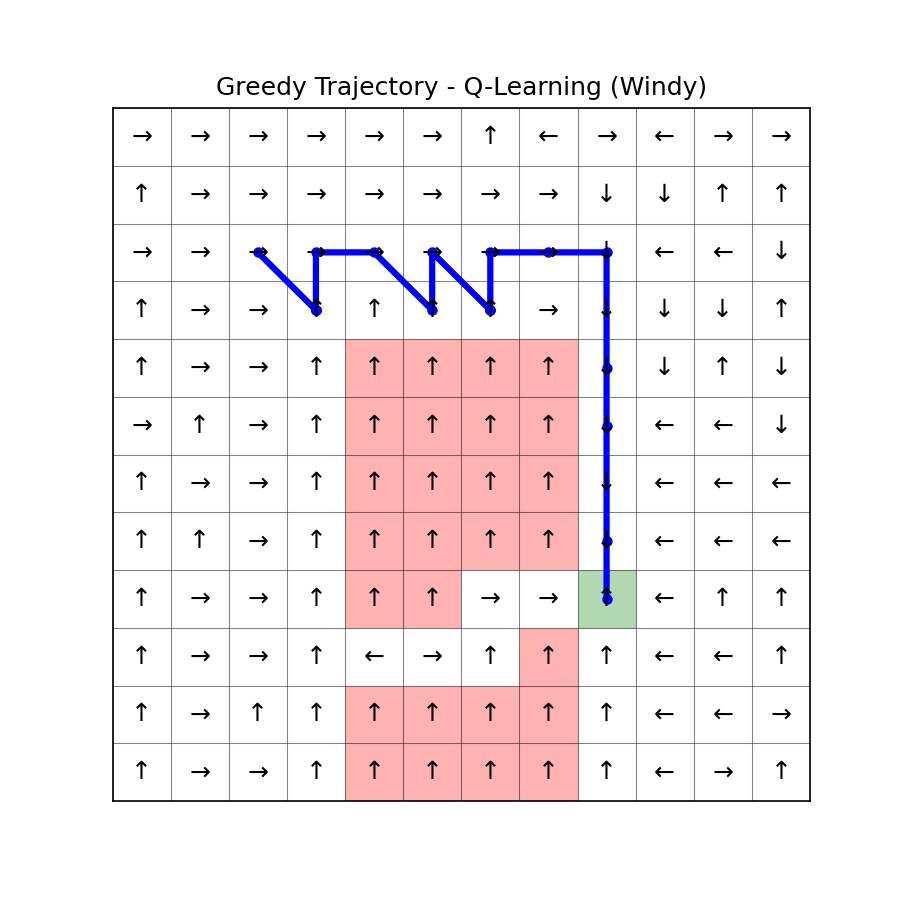
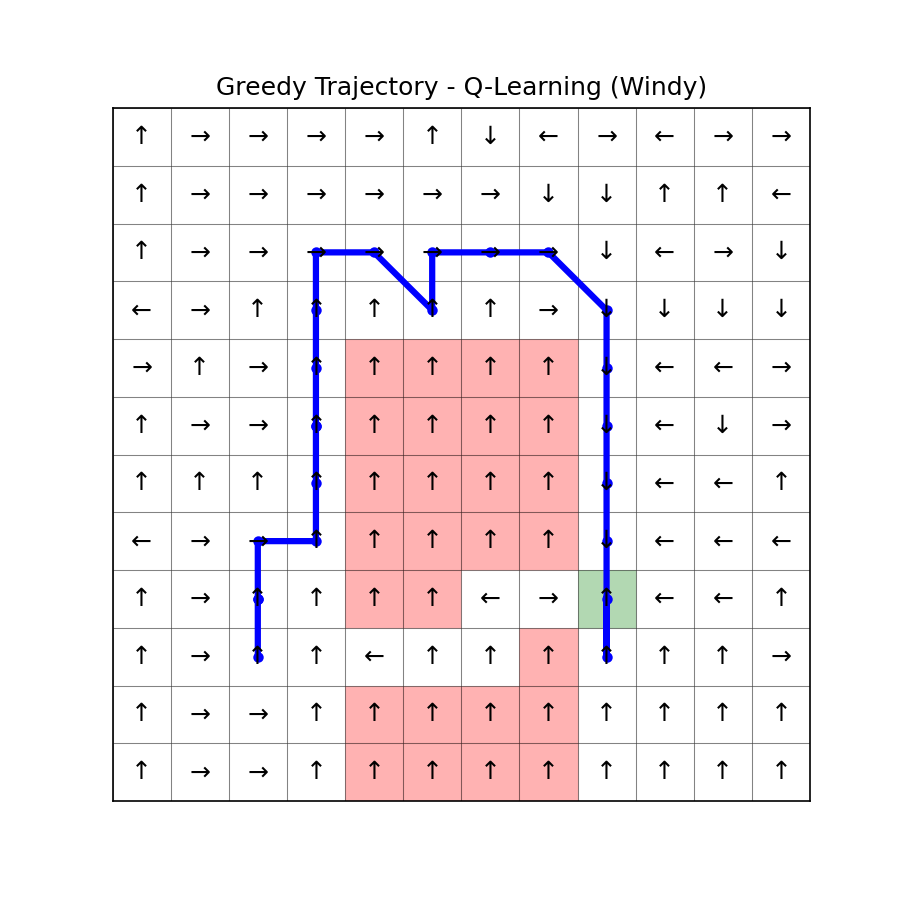
Updated graphs, greedy path always starts at lower point

diff --git a/IRL_A2/ShortCutExperiment.py b/IRL_A2/ShortCutExperiment.py
@@ -143,7 +143,13 @@ def save_greedy_trajectory(Q, env, filename, title="Greedy Trajectory"):
                     ha='center', va='center', fontsize=12)
 
     # 3) Simulate from the start to get the actual path
-    env.reset()
+    env.reset()  # Needed to initialize env state
+
+    # Force bottom start
+    env.x = env.c // 6
+    env.y = 5 * env.r // 6 - 1
+    env.starty = env.y
+
     path_coords = []
     max_steps = 200  # to prevent infinite loop if we never reach the goal
     for _ in range(max_steps):
@@ -198,7 +204,7 @@ def experiment_qlearning():
     save_greedy_trajectory(
         q_agent_long.Q,
         q_env_long,
-        "qlearning_greedy_trajectory.png",
+        "trajectory_qlearning.png",
         title="Greedy Trajectory - Q-Learning"
     )
 
